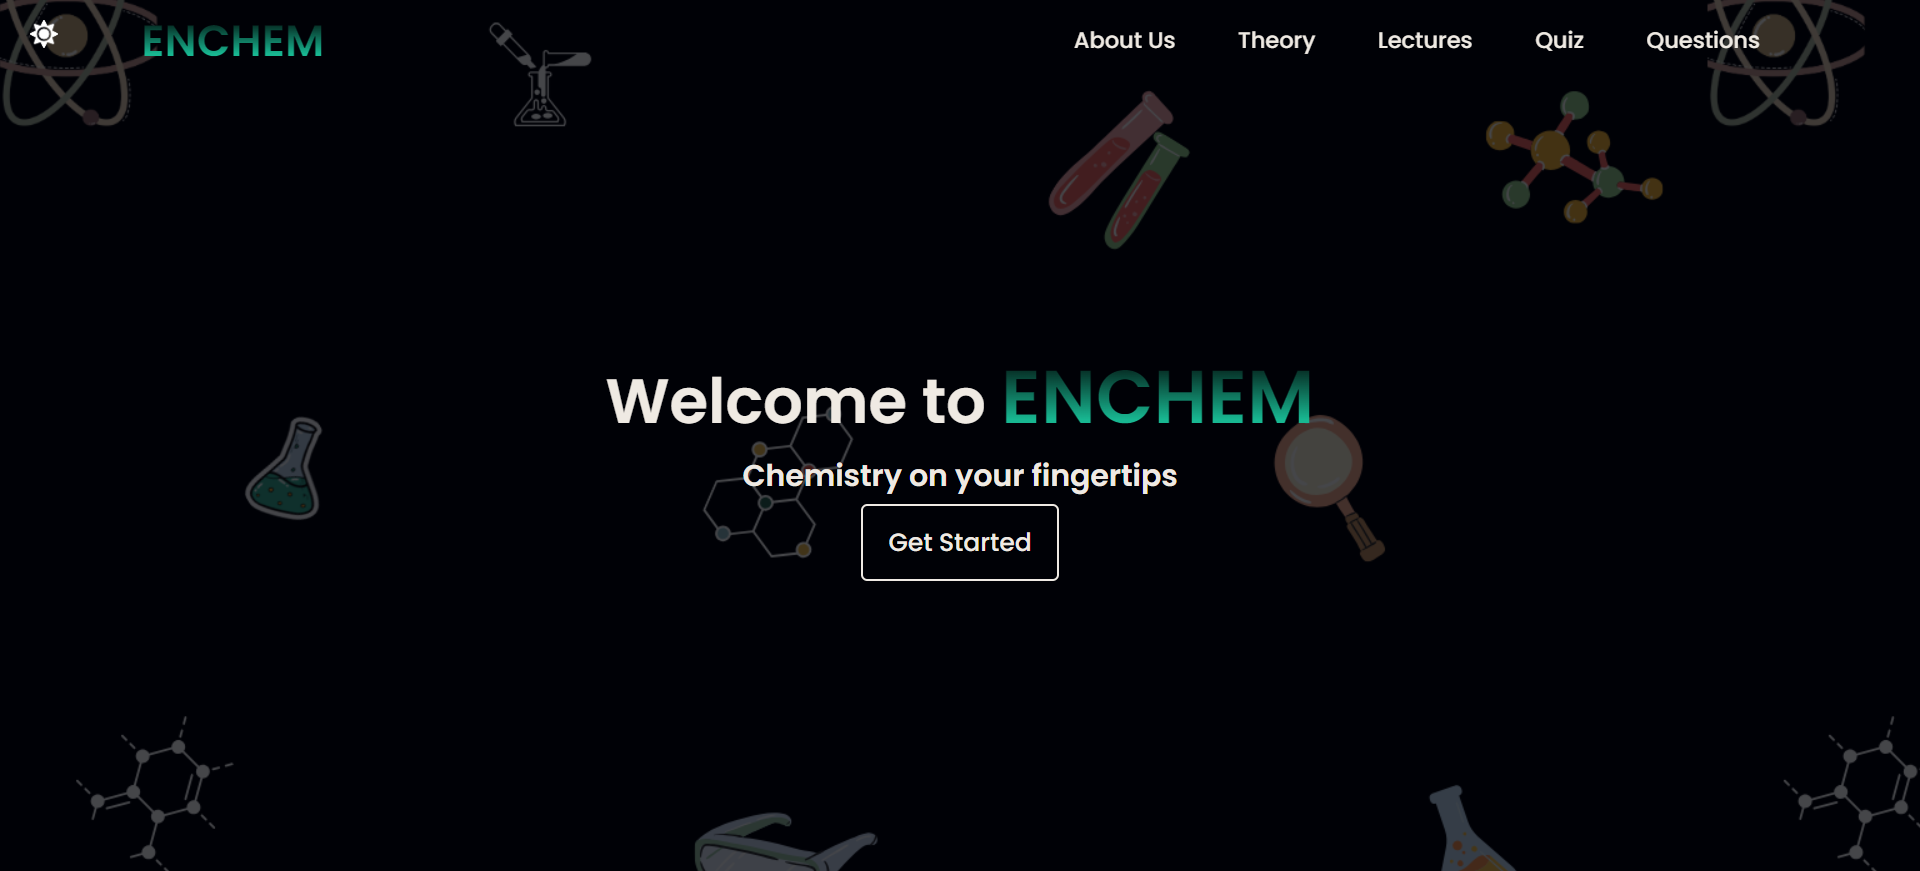
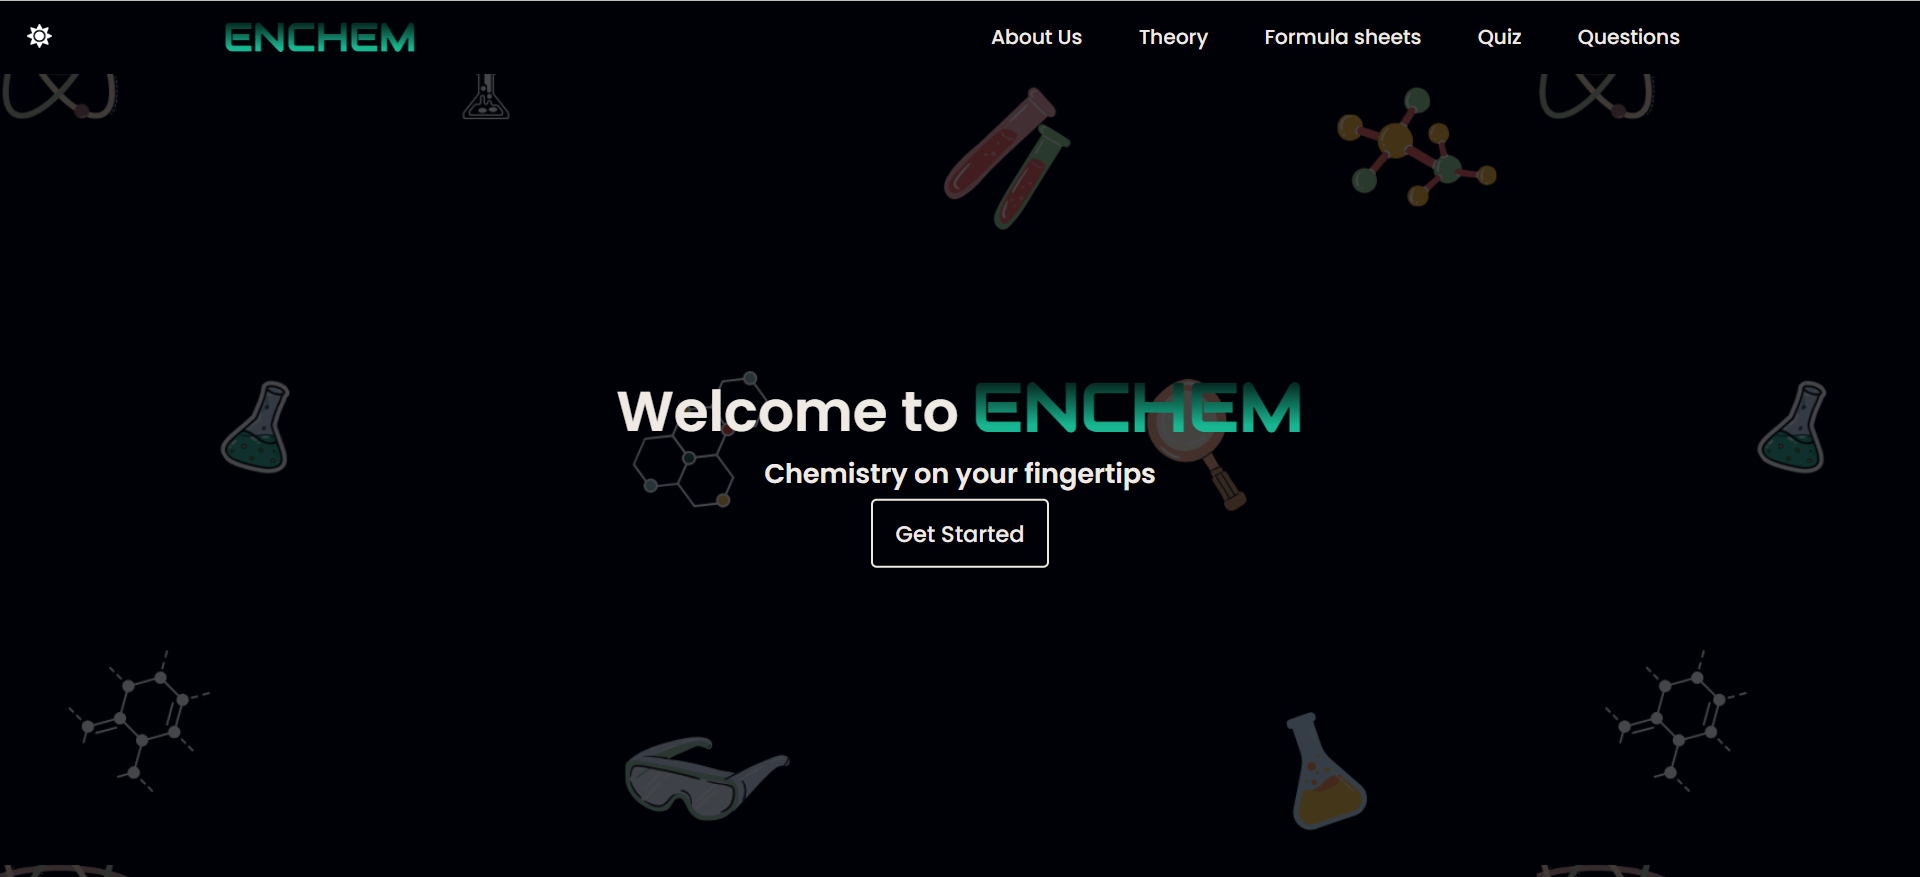
Final push

diff --git a/index.html b/index.html
@@ -6,7 +6,11 @@
     <meta name="viewport" content="width=device-width, initial-scale=1.0">
     <title>ENCHEM</title>
     <link rel="stylesheet" href="styles.css">
+    <link rel="stylesheet" href="commonstyle.css">
     <link rel="stylesheet" href="https://cdnjs.cloudflare.com/ajax/libs/font-awesome/5.15.2/css/all.min.css">
+    <link rel="preconnect" href="https://fonts.googleapis.com">
+<link rel="preconnect" href="https://fonts.gstatic.com" crossorigin>
+<link href="https://fonts.googleapis.com/css2?family=Audiowide&display=swap" rel="stylesheet">
 </head>
 
 <body>

diff --git a/styles.css b/styles.css
@@ -58,8 +58,11 @@ body{
 }
 
 .intro .logo h1 {
+    font-family: "Audiowide", sans-serif;
+    font-style: normal;
+  font-weight: 700;
     font-size: 5rem;
-    font-weight: 700;
+    /* font-weight: 700; */
     letter-spacing: 2px;
     margin-bottom: 10px;
 }
@@ -221,6 +224,8 @@ nav .menu {
     font-weight: 600;
 }
 .center .title .enchem{
+    font-family: "Audiowide", sans-serif;
+    font-style: normal;
     background: linear-gradient(to top,#18B791 28%, #062E25 76%);
     background-clip: text;
     -webkit-text-fill-color: transparent;

diff --git a/Formula sheet/page1.html b/Formula sheet/page1.html
@@ -5,6 +5,9 @@
     <meta name="viewport" content="width=device-width, initial-scale=1.0">
     <title>ENCHEM-Unit 1</title>
     <link rel="stylesheet" href="Formula.css">
+    <link rel="preconnect" href="https://fonts.googleapis.com">
+<link rel="preconnect" href="https://fonts.gstatic.com" crossorigin>
+<link href="https://fonts.googleapis.com/css2?family=Audiowide&display=swap" rel="stylesheet">
 </head>
 <body>
     <!-- <h3>UNIT-1 Water Technology and Green Chemistry</h3> -->

diff --git a/Formula sheet/page2.html b/Formula sheet/page2.html
@@ -5,6 +5,9 @@
     <meta name="viewport" content="width=device-width, initial-scale=1.0">
     <title>ENCHEM-Unit 2</title>
     <link rel="stylesheet" href="Formula.css">
+    <link rel="preconnect" href="https://fonts.googleapis.com">
+<link rel="preconnect" href="https://fonts.gstatic.com" crossorigin>
+<link href="https://fonts.googleapis.com/css2?family=Audiowide&display=swap" rel="stylesheet">
 </head>
 <body>
     <!-- <h3>UNIT-1 Water Technology and Green Chemistry</h3> -->

diff --git a/Notes/page1.html b/Notes/page1.html
@@ -5,6 +5,9 @@
     <meta name="viewport" content="width=device-width, initial-scale=1.0">
     <title>ENCHEM-Unit 1</title>
     <link rel="stylesheet" href="notes.css">
+    <link rel="preconnect" href="https://fonts.googleapis.com">
+<link rel="preconnect" href="https://fonts.gstatic.com" crossorigin>
+<link href="https://fonts.googleapis.com/css2?family=Audiowide&display=swap" rel="stylesheet">
 </head>
 <body>
     <!-- <h3>UNIT-1 Water Technology and Green Chemistry</h3> -->

diff --git a/Notes/page2.html b/Notes/page2.html
@@ -5,6 +5,9 @@
     <meta name="viewport" content="width=device-width, initial-scale=1.0">
     <title>ENCHEM-Unit 2</title>
     <link rel="stylesheet" href="notes.css">
+    <link rel="preconnect" href="https://fonts.googleapis.com">
+<link rel="preconnect" href="https://fonts.gstatic.com" crossorigin>
+<link href="https://fonts.googleapis.com/css2?family=Audiowide&display=swap" rel="stylesheet">
 </head>
 <body>
     <!-- <h3>UNIT-1 Water Technology and Green Chemistry</h3> -->

diff --git a/Notes/page3.html b/Notes/page3.html
@@ -5,6 +5,9 @@
     <meta name="viewport" content="width=device-width, initial-scale=1.0">
     <title>ENCHEM-Unit 3</title>
     <link rel="stylesheet" href="notes.css">
+    <link rel="preconnect" href="https://fonts.googleapis.com">
+<link rel="preconnect" href="https://fonts.gstatic.com" crossorigin>
+<link href="https://fonts.googleapis.com/css2?family=Audiowide&display=swap" rel="stylesheet">
 </head>
 <body>
     <!-- <h3>UNIT-1 Water Technology and Green Chemistry</h3> -->

diff --git a/Notes/page4.html b/Notes/page4.html
@@ -5,6 +5,9 @@
     <meta name="viewport" content="width=device-width, initial-scale=1.0">
     <title>ENCHEM-Unit 4</title>
     <link rel="stylesheet" href="notes.css">
+    <link rel="preconnect" href="https://fonts.googleapis.com">
+<link rel="preconnect" href="https://fonts.gstatic.com" crossorigin>
+<link href="https://fonts.googleapis.com/css2?family=Audiowide&display=swap" rel="stylesheet">
 </head>
 <body>
     <!-- <h3>UNIT-1 Water Technology and Green Chemistry</h3> -->

diff --git a/Formula sheet/formula.html b/Formula sheet/formula.html
@@ -7,6 +7,9 @@
   <link rel="stylesheet" href="Formula.css">
   <link rel="stylesheet" href="../commonstyle.css">
     <link rel="stylesheet" href="https://cdnjs.cloudflare.com/ajax/libs/font-awesome/5.15.2/css/all.min.css">
+    <link rel="preconnect" href="https://fonts.googleapis.com">
+<link rel="preconnect" href="https://fonts.gstatic.com" crossorigin>
+<link href="https://fonts.googleapis.com/css2?family=Audiowide&display=swap" rel="stylesheet">
 </head>
 <body>
   <nav>

diff --git a/Notes/notes.html b/Notes/notes.html
@@ -7,6 +7,9 @@
   <link rel="stylesheet" href="notes.css">
   <link rel="stylesheet" href="../commonstyle.css">
     <link rel="stylesheet" href="https://cdnjs.cloudflare.com/ajax/libs/font-awesome/5.15.2/css/all.min.css">
+    <link rel="preconnect" href="https://fonts.googleapis.com">
+<link rel="preconnect" href="https://fonts.gstatic.com" crossorigin>
+<link href="https://fonts.googleapis.com/css2?family=Audiowide&display=swap" rel="stylesheet">
 </head>
 <body>
   <nav>

diff --git a/pyq/pyq.html b/pyq/pyq.html
@@ -7,6 +7,9 @@
   <link rel="stylesheet" href="pyq.css">
   <link rel="stylesheet" href="../commonstyle.css">
     <link rel="stylesheet" href="https://cdnjs.cloudflare.com/ajax/libs/font-awesome/5.15.2/css/all.min.css">
+    <link rel="preconnect" href="https://fonts.googleapis.com">
+<link rel="preconnect" href="https://fonts.gstatic.com" crossorigin>
+<link href="https://fonts.googleapis.com/css2?family=Audiowide&display=swap" rel="stylesheet">
 </head>
 <body>
   <nav>

diff --git a/About/about.html b/About/about.html
@@ -8,6 +8,9 @@
     <link rel="stylesheet" href="about.css">
     <link rel="stylesheet" href="../commonstyle.css">
     <link rel="stylesheet" href="https://cdnjs.cloudflare.com/ajax/libs/font-awesome/5.15.2/css/all.min.css">
+    <link rel="preconnect" href="https://fonts.googleapis.com">
+<link rel="preconnect" href="https://fonts.gstatic.com" crossorigin>
+<link href="https://fonts.googleapis.com/css2?family=Audiowide&display=swap" rel="stylesheet">
 </head>
 
 <body>
